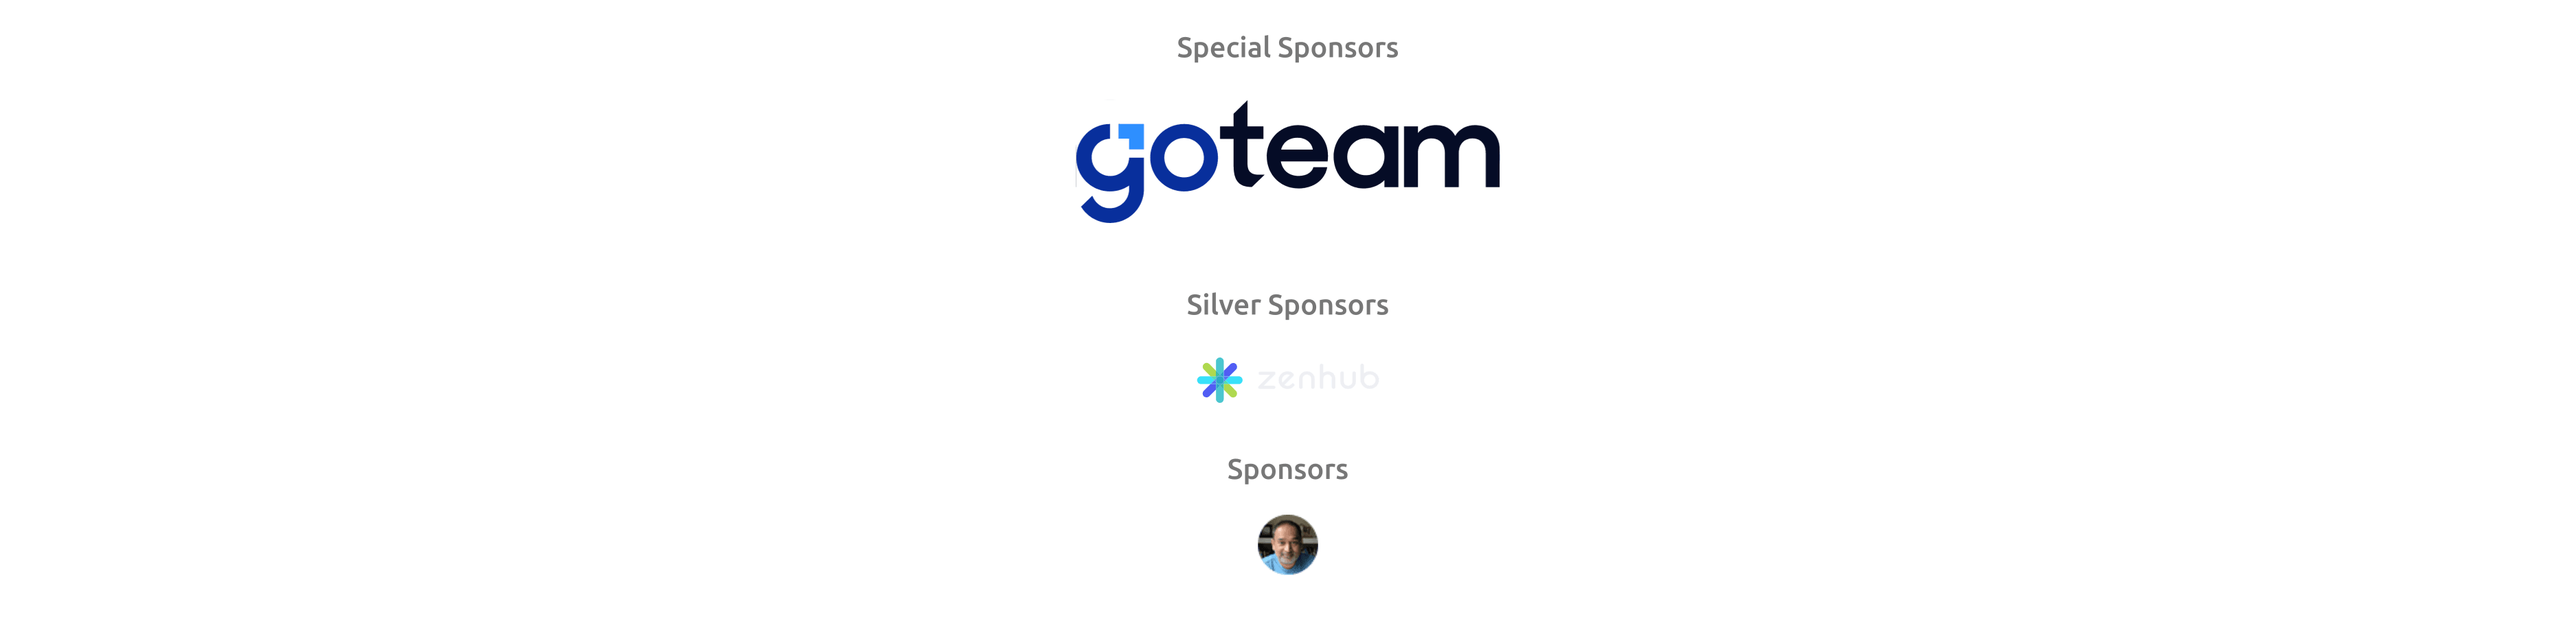
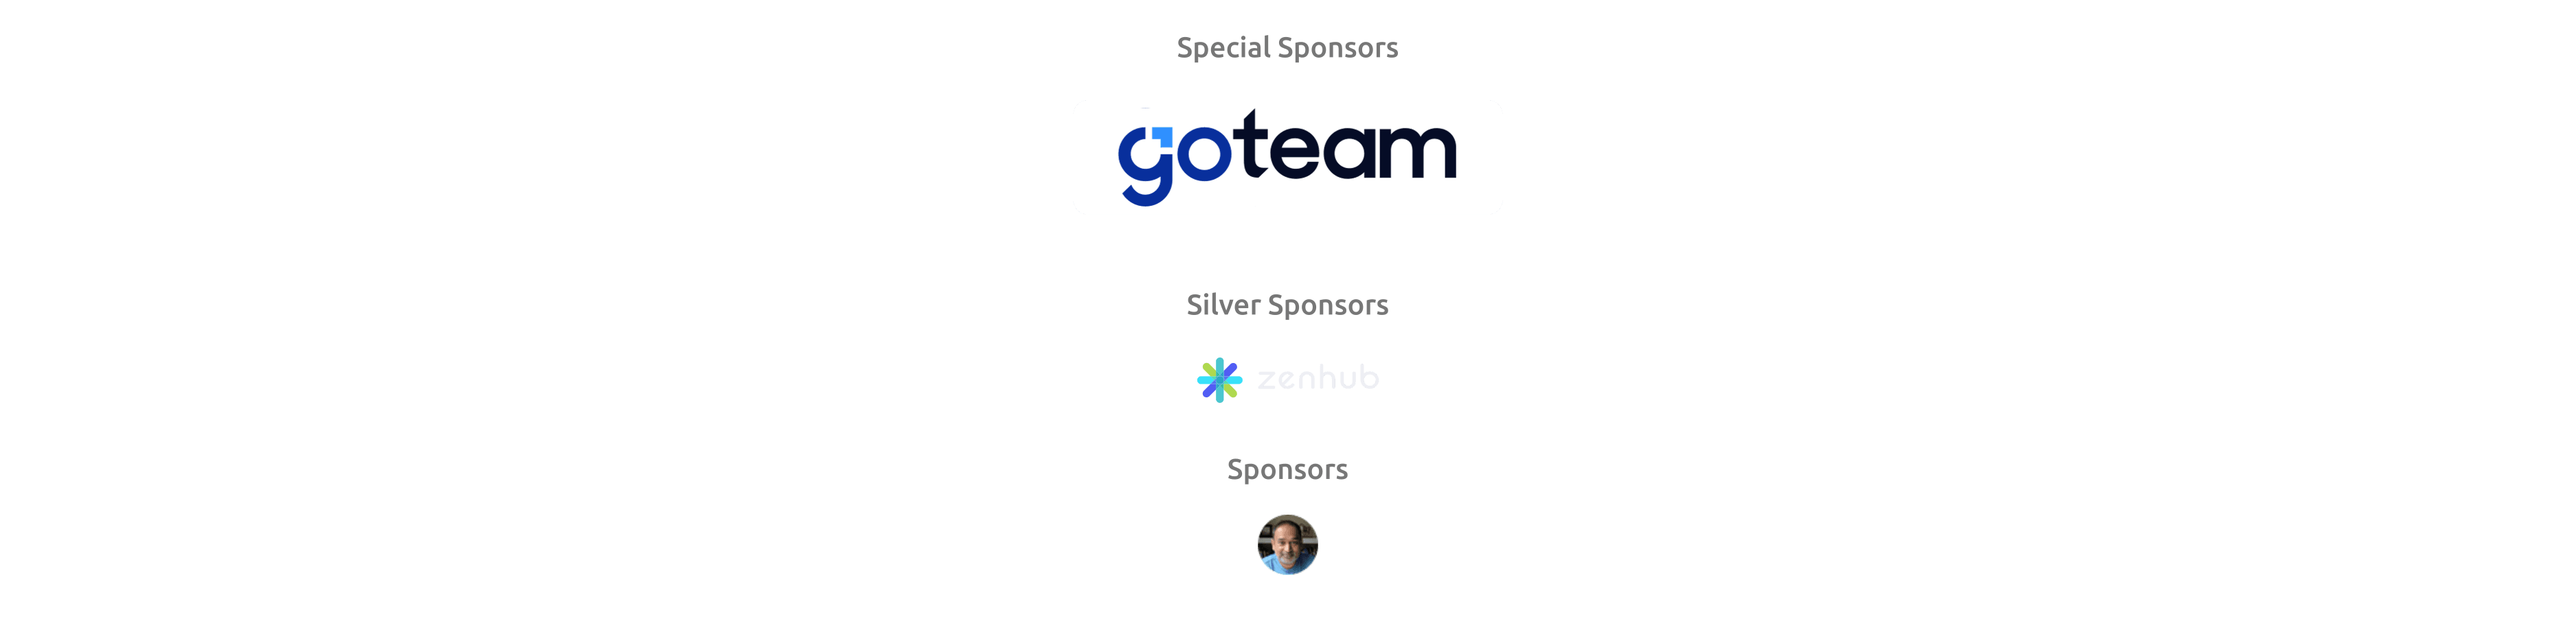
chore: update size

Changed region(s): [[0.4056, 0.152, 0.5928, 0.3648]]

diff --git a/sponsor.config.ts b/sponsor.config.ts
@@ -8,13 +8,15 @@ const ZENHUB_LOGO = (width: number, y: number) => `
 
 const GOTEAM_LOGO = (width: number, y: number) => `
 <a xlink:href="https://go.team/" class="sponsorkit-link" target="_blank" id="GoTeam">
-<svg  x="${(width - 296) / 2}" y="${y}" width="296" height="86" viewBox="0 0 296 86" fill="none" xmlns="http://www.w3.org/2000/svg" xmlns:xlink="http://www.w3.org/1999/xlink">
-<rect width="296" height="86" fill="url(#pattern0)"/>
+<svg  x="${(width - 300) / 2}" y="${y}"  width="300" height="80" viewBox="0 0 300 80" fill="none" xmlns="http://www.w3.org/2000/svg" xmlns:xlink="http://www.w3.org/1999/xlink">
+<rect width="300" height="80" rx="10" fill="white"/>
+<rect x="23.0769" y="5.6" width="252.991" height="68.8" fill="white"/>
+<rect x="23.0769" y="5.6" width="252.991" height="68.8" fill="url(#pattern0)"/>
 <defs>
 <pattern id="pattern0" patternContentUnits="objectBoundingBox" width="1" height="1">
-<use xlink:href="#image0_2_2" transform="scale(0.000626852 0.00215054)"/>
+<use xlink:href="#image0_17_3" transform="matrix(0.00058483 0 0 0.00215054 0.0333057 0)"/>
 </pattern>
[2 lines of base64/hex data omitted]
 </defs>
 </svg>
 </a>
